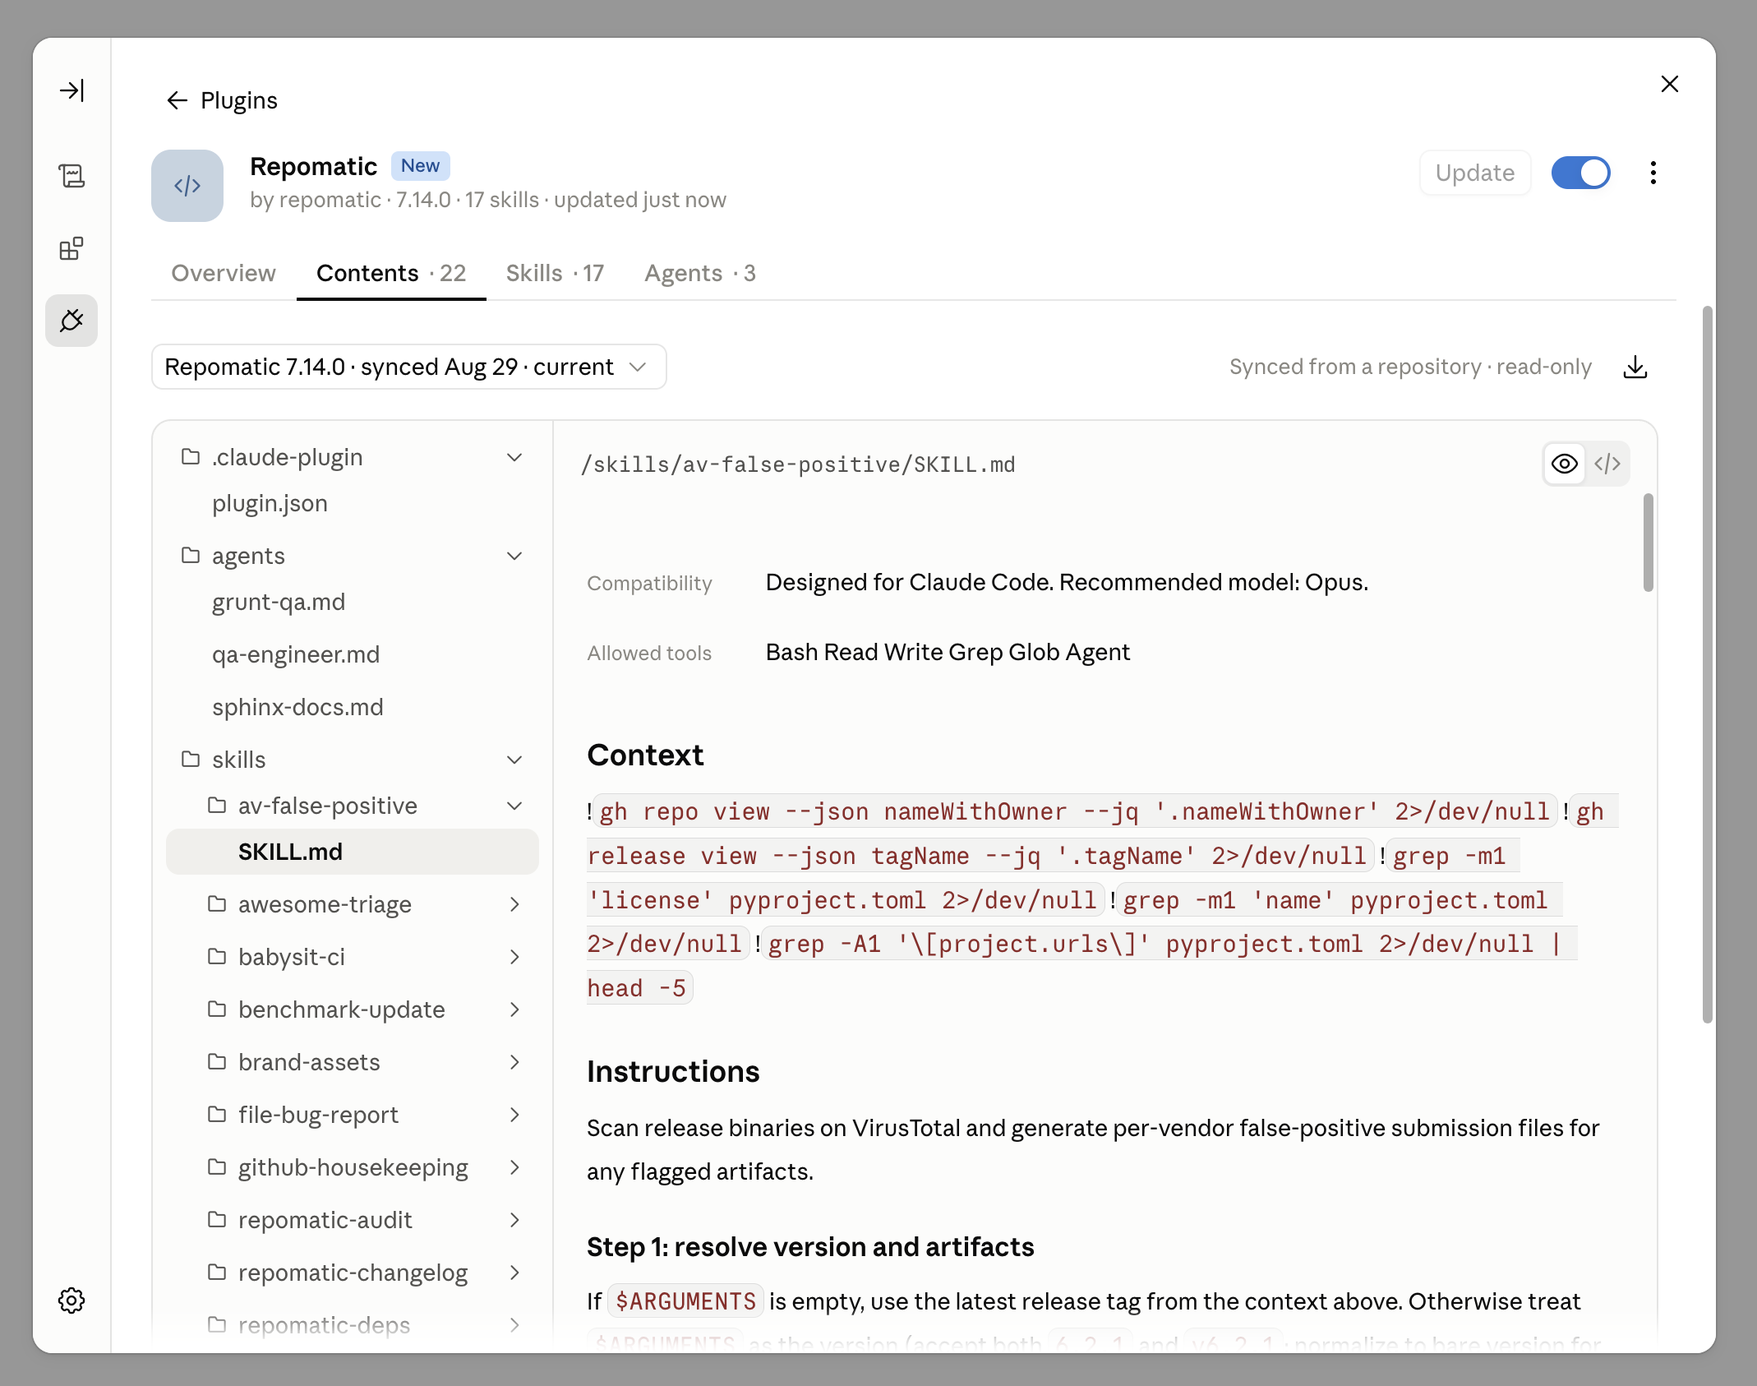
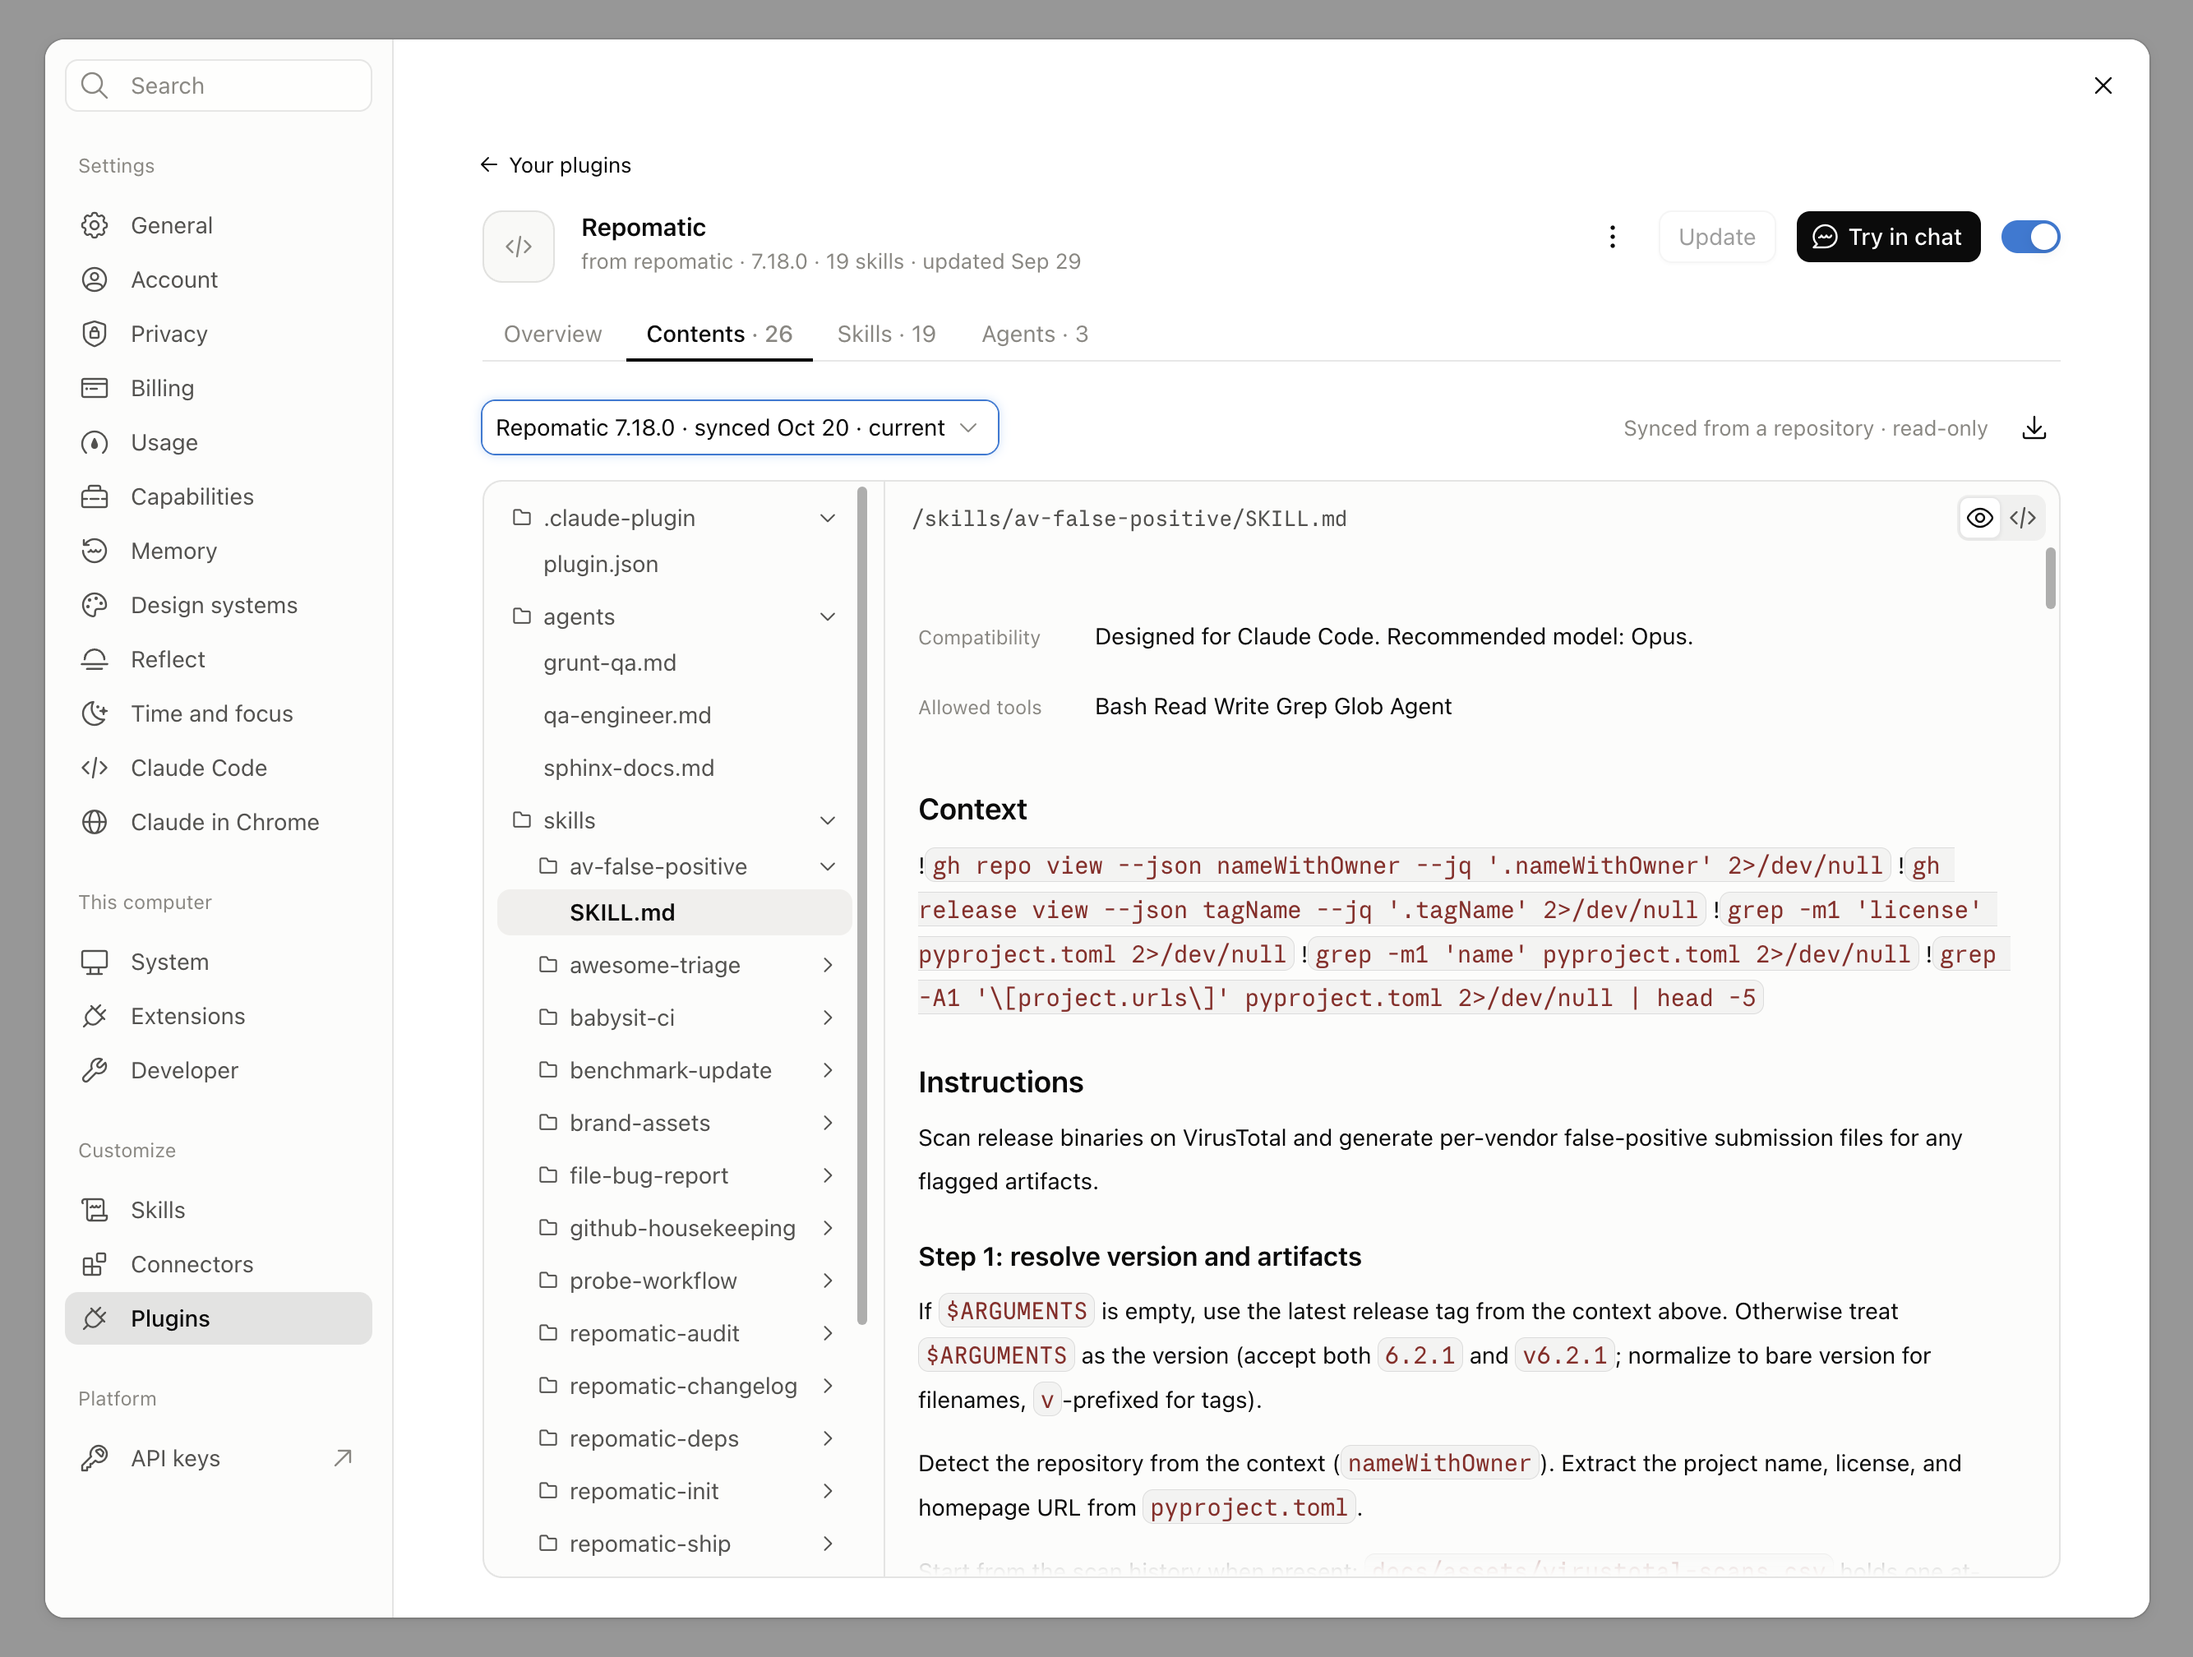
Retake the Claude Desktop plugin screenshots for 19 skills

diff --git a/docs/claude-code-plugin.md b/docs/claude-code-plugin.md
@@ -49,7 +49,7 @@ Every skill and agent, and nothing else: the 19 skills listed on the [skills pag
 
 That directory is what the marketplace publishes and what the archive mirrors, so `claude --plugin-dir .claude` in a checkout loads exactly what an install gives you. A marketplace install shows that tree back to you, read-only:
 
-![The installed plugin's Contents tab, listing plugin.json, three agents and seventeen skill folders](assets/desktop-plugin-contents.png)
+![The installed plugin's Contents tab, listing plugin.json, three agents and nineteen skill folders](assets/desktop-plugin-contents.png)
 
 ```{warning}
 Do not add an `agents` path to the manifest to publish the assets from somewhere else. `claude plugin validate --strict` accepts one and Claude Code then loads **zero** agents, with no error anywhere. This was measured against Claude Code 2.1.220: `claude plugin details` reported `Agents (0)` for the custom-path layout and `Agents (3)` for the default one.
@@ -145,7 +145,7 @@ That is the only panel the archive goes through. The **Customize > Skills** uplo
 
 Every skill and agent arrives in that single upload, listed under the plugin's **Skills** and **Agents** tabs and invocable by typing `/` in chat. The marketplace route below populates the same two tabs:
 
-![The Skills tab listing seventeen slash commands](assets/desktop-plugin-skills.png)
+![The Skills tab listing nineteen slash commands](assets/desktop-plugin-skills.png)
 
 ![The Agents tab listing grunt-qa, qa-engineer and sphinx-docs](assets/desktop-plugin-agents.png)
 
